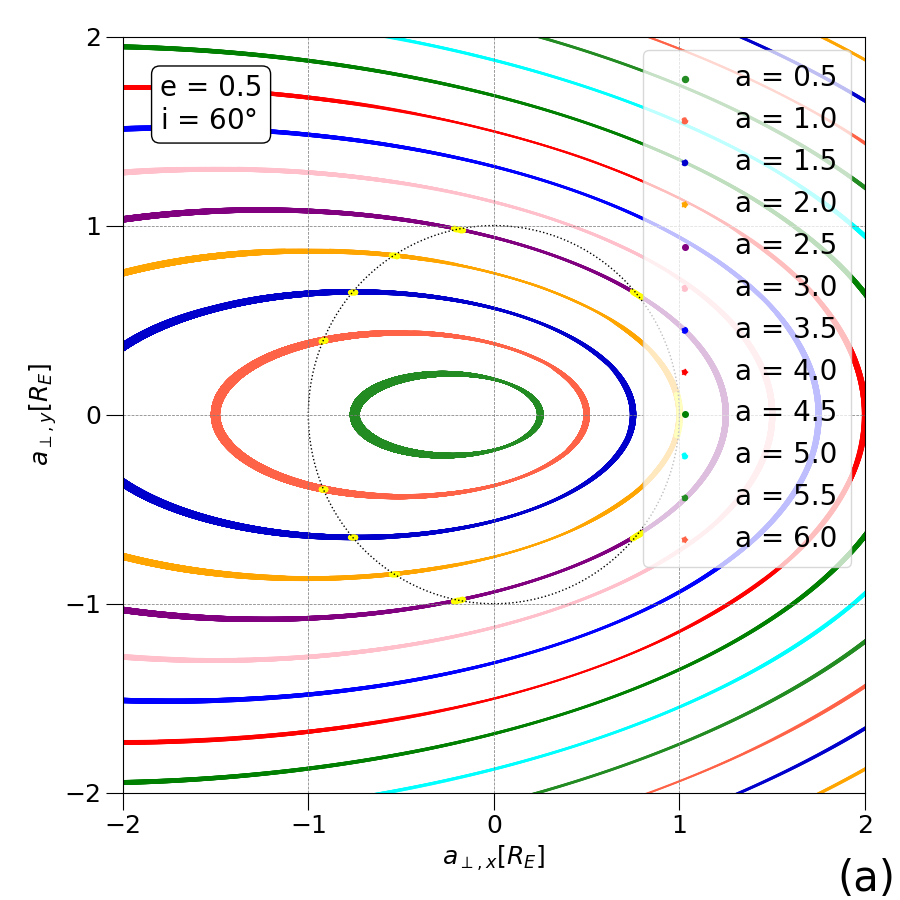
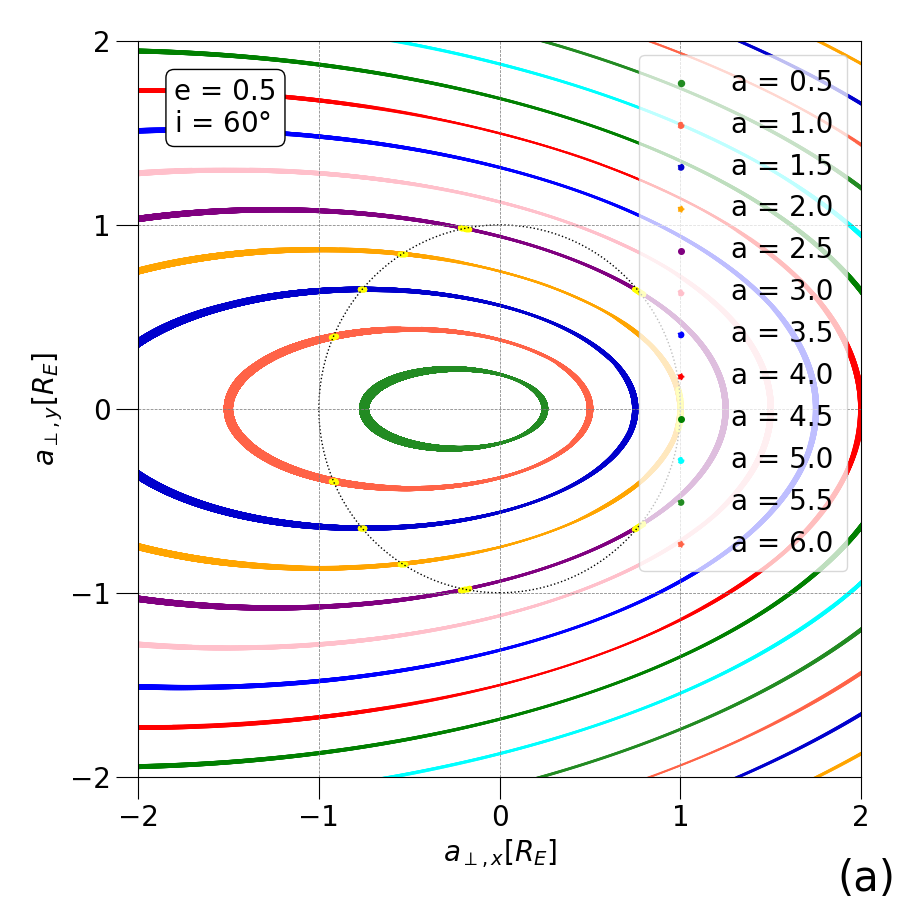
- Adjusted fontsize, labelsize, and tick size for Figure 2 plots in paper
- Changed text for Power law alpha = 2 to alpha = 1 for specified MultiPlotHist

diff --git a/Sep_plot.py b/Sep_plot.py
@@ -21,11 +21,11 @@ import matplotlib.gridspec as gridspec
 import statistics as stats
 
 matplotlib.use("Agg")
-matplotlib.rcParams["axes.labelsize"] = 18
-matplotlib.rcParams["font.size"] = 18
-matplotlib.rcParams["xtick.major.size"] = 12
+matplotlib.rcParams["axes.labelsize"] = 20
+matplotlib.rcParams["font.size"] = 20
+matplotlib.rcParams["xtick.major.size"] = 16
 matplotlib.rcParams["xtick.minor.size"] = 8
-matplotlib.rcParams["ytick.major.size"] = 12
+matplotlib.rcParams["ytick.major.size"] = 16
 matplotlib.rcParams["ytick.minor.size"] = 8
 class Sep_plot(Sep_gen):
 
@@ -638,9 +638,9 @@ class Sep_plot(Sep_gen):
             if which == "Linear":
                 labels = ["Linear", "Peak Eccentricity"]
             else:
-                labels = ["Linear", "Log", r"Power Law: $\alpha = 2$", r"Expected Peak $e$"]
+                labels = ["Linear", "Log", r"Power Law: $\alpha = 1$", r"Expected Peak $e$"]
                 
-            axs.legend(handles = handles, labels = labels, loc = "upper right", fontsize = 25)
+            axs.legend(handles = handles, labels = labels, loc = "upper right", fontsize = 20)
             plt.figtext(0.93, 0.01, "(b)", fontsize = 30)
             fig.tight_layout()
 
@@ -1911,7 +1911,7 @@ if __name__ == "__main__":
     wnum = 100 # THIS DETERMINES HOW MANY POSITIONS IN THE ARRAY THERE ARE
     inum = wnum
     # FOR REAL LINEAR, alpha = 0, FOR REAL LOG, alpha = -1, FOR REAL POWER, alpha = 1
-    which = "Linear"
+    which = "Log"
     alpha = -1 # For test = True, this becomes the comparison to which
     inclination = True # KEEP IN MIND THIS VALUE
     circ = False
@@ -1922,13 +1922,13 @@ if __name__ == "__main__":
     # specify = []
     specify = [0.5, np.pi/3]
     tothist = Sep_plot(numestep=numestep, numdiv=numdiv, wnum = wnum)
-    # rlist = tothist.MultiPlotProj(w = 0, start = 0.5, end = 20, step = 0.5, specify = specify)
+    rlist = tothist.MultiPlotProj(w = 0, start = 0.5, end = 20, step = 0.5, specify = specify)
     # specify = [eccentricity, inclination]
     # rtemp = tothist.MultiPlotHist(w = 0, step = 0.002, end = 20, which = which , specify = specify) # Only works for Log (has all 3)
     
    # CompleteHistLoad includes Omega and Inclination marginalization!
     # tothist.CompleteHistGen(which = which, unity = unity)
-    tothist.CompleteHistLoad(which = which, inclination = inclination)
+    # tothist.CompleteHistLoad(which = which, inclination = inclination)
     
     # UnityPlotHistGen includes Inclination and Eccentricity Marginalization!
     # folder = tothist.UnityPlotHistGen(which = which, unity = unity, circ = circ, gamma_bool = gamma_bool, inclination = inclination)
